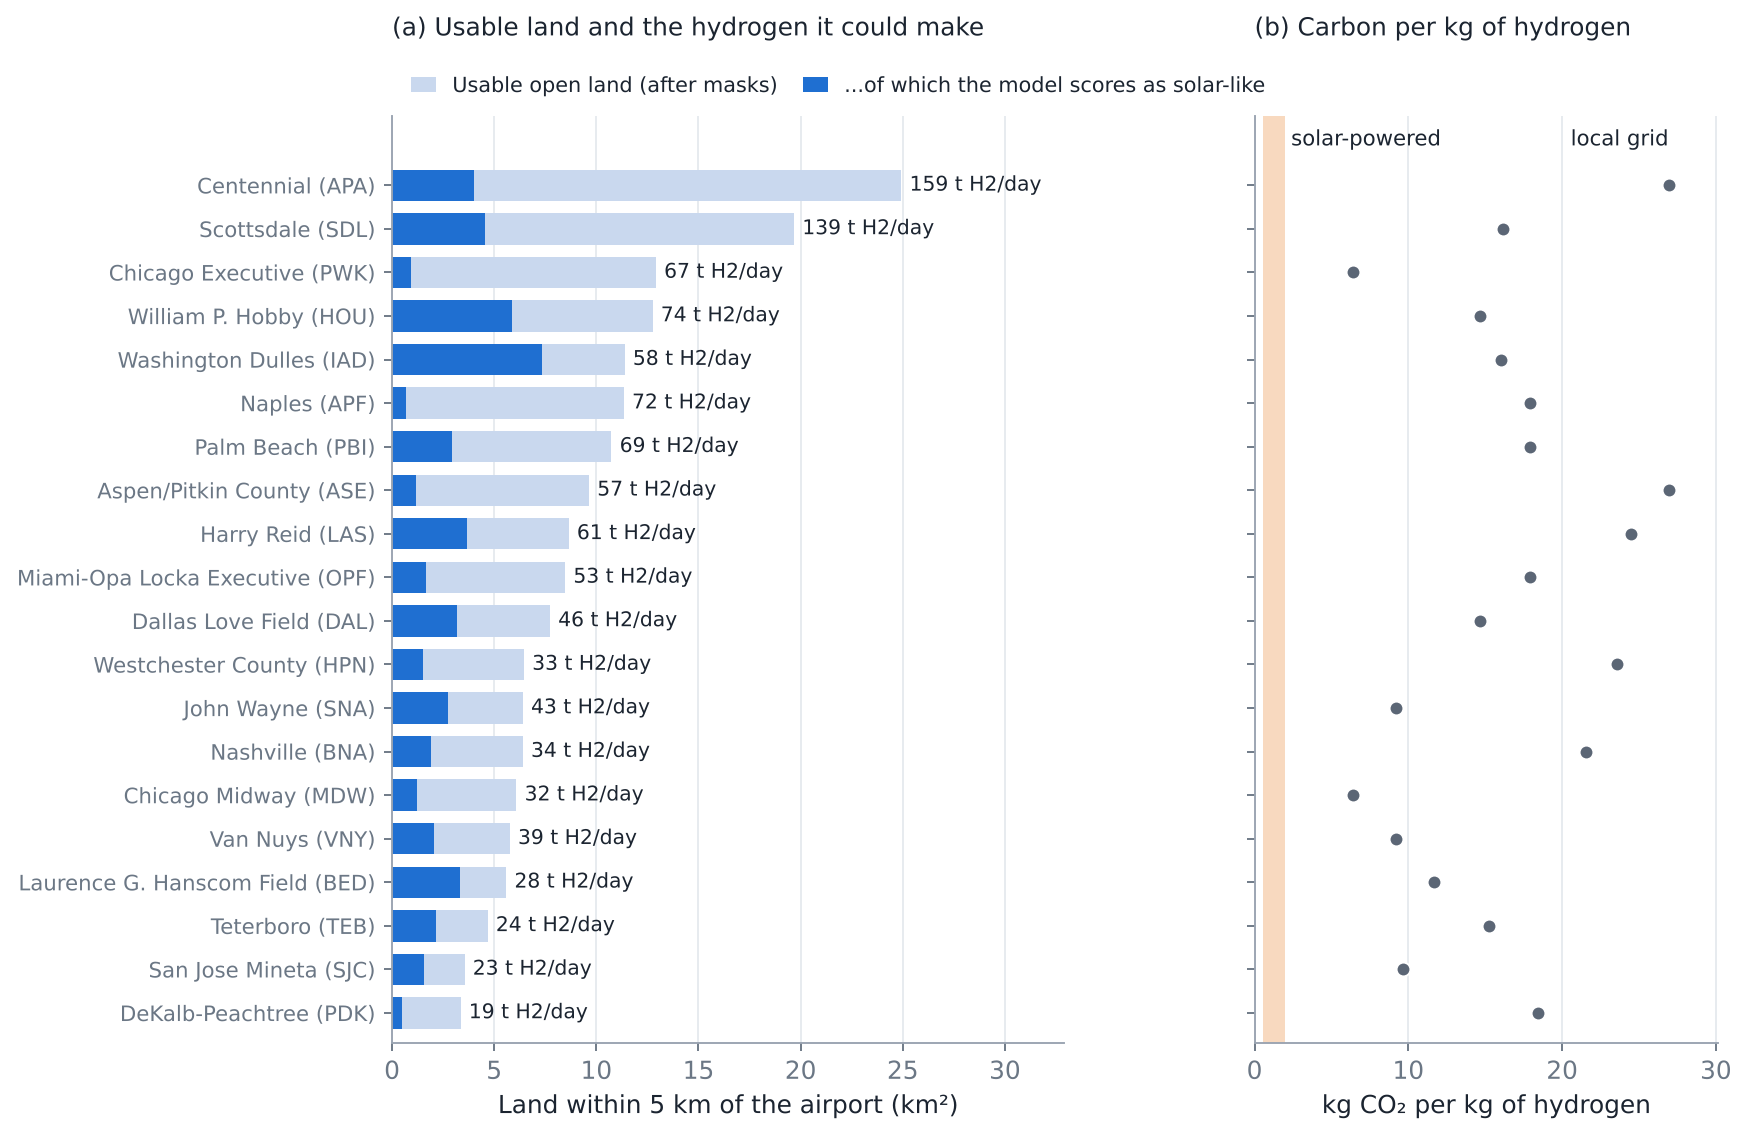
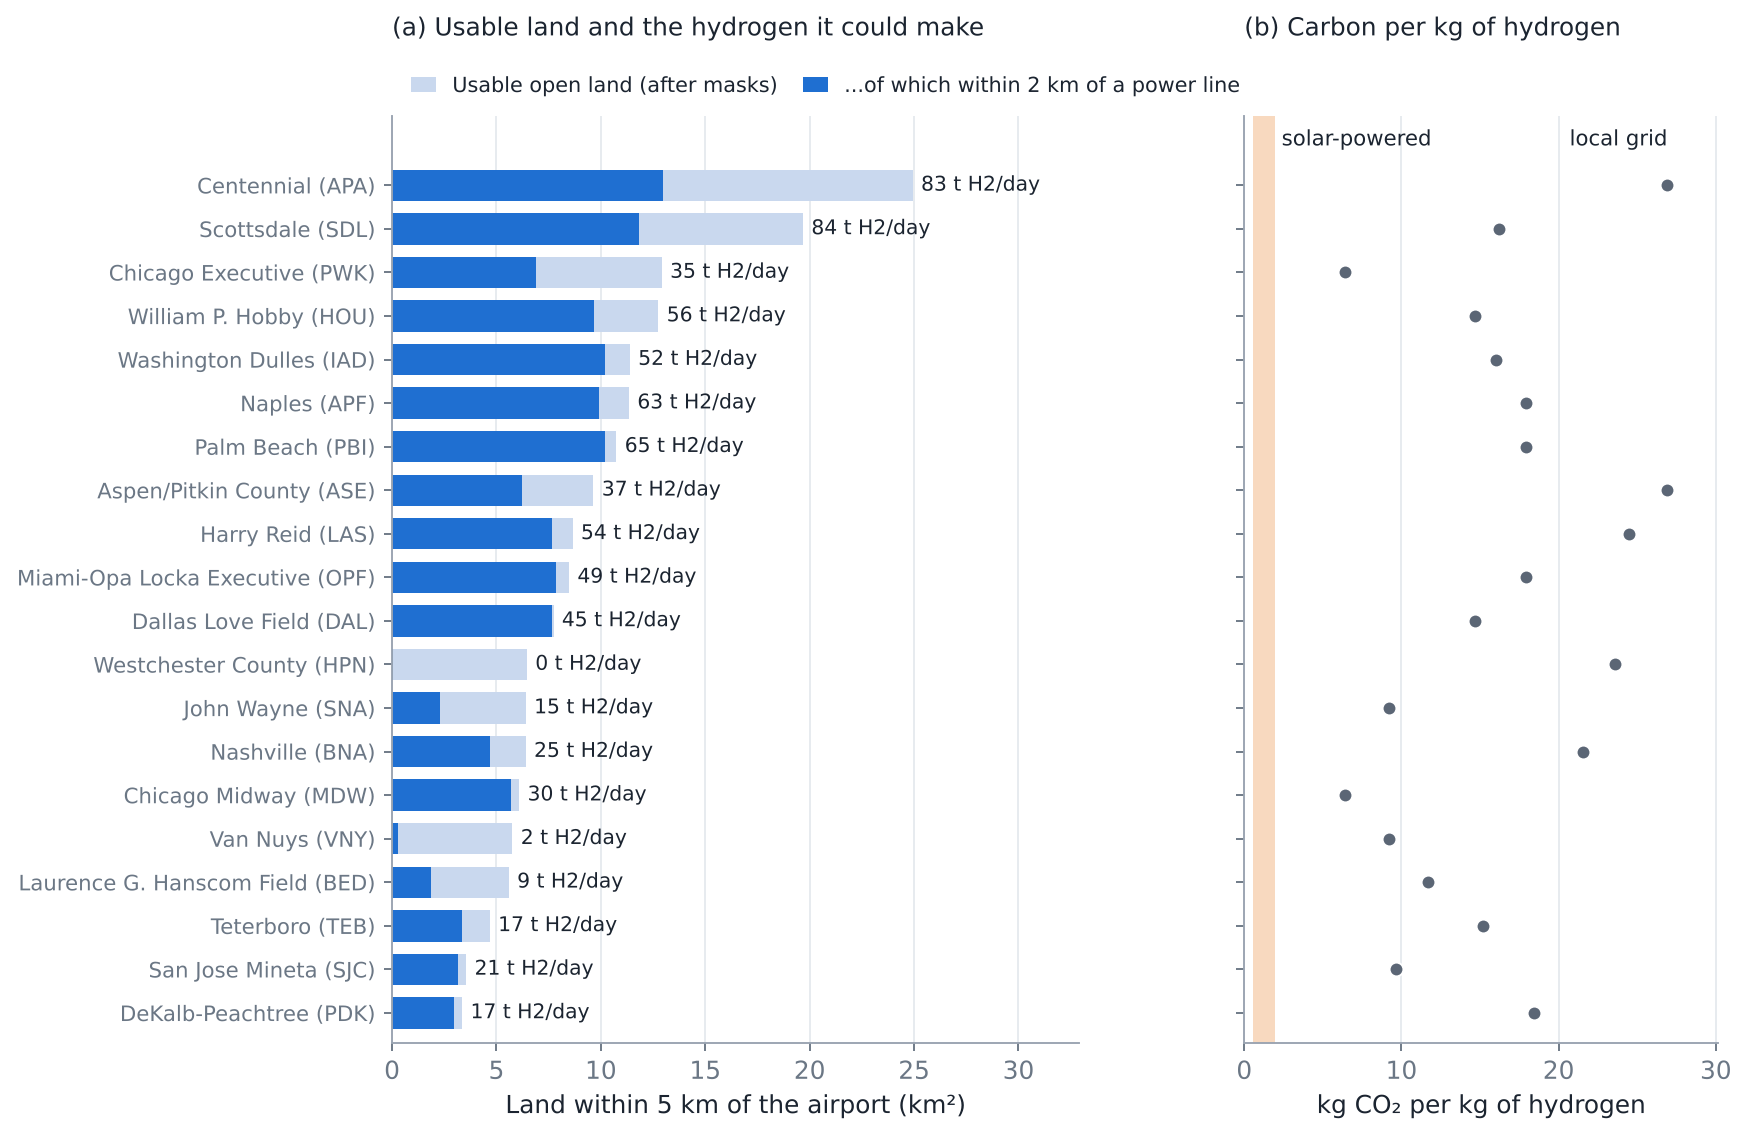
Grid access results (D) on the page and in the README; map page scaffold
Claude-Session: https://claude.ai/code/session_01W6SAWWhDvk72oWzjwsvJjc

diff --git a/docs/index.html b/docs/index.html
@@ -147,15 +147,15 @@ footer{padding:64px 0 80px;font-size:14.5px;color:#56616f}footer p{max-width:60e
 
 <section class="sec"><div class="wrap">
 <p class="kick">What the land could supply</p>
-<h2>Enough land for tens of tonnes of clean hydrogen a day, on paper</h2>
-<p>I removed land that cannot be used (buildings, roads, water, forest, slopes over 5&deg;, existing solar farms and a 500 m band around runways), then converted what was left into solar power and hydrogen.</p>
+<h2>Up to 84 tonnes of clean hydrogen a day per airport, on paper</h2>
+<p>I removed land that cannot be used (buildings, roads, water, forest, slopes over 5&deg;, existing solar farms and a 500 m band around runways), kept what lies within 2 km of a transmission line, then converted it into solar power and hydrogen.</p>
 <div class="finds">
-<div><b>187 km&sup2;</b><p>of usable open land within 5 km of the 20 airports (3.4 to 24.9 km&sup2; each).</p></div>
+<div><b>125 km&sup2;</b><p>of the 187 km&sup2; of usable land (67%) lies within 2 km of a transmission line. Van Nuys, Westchester have almost none.</p></div>
 <div><b>5&ndash;7 t</b><p>of hydrogen a day per km&sup2; of solar, depending on how sunny the airport is.</p></div>
 <div><b>3&ndash;49&times;</b><p>less CO&#8322; per kg than hydrogen made from the local grid (0.55&ndash;1.98 kg against 6.4&ndash;26.9 kg).</p></div>
 </div>
 <img class="shot" style="margin-top:36px;box-shadow:none;border:1px solid #e3e7ee" src="fig/fig5_airport_supply.png" alt="Bar chart of usable land and hydrogen per airport, and dot chart of carbon per kg of hydrogen from grid versus solar">
-<p class="cap">Upper bounds: they ignore grid connection, ownership, zoning and cost. Solar output from NLR PVWatts; 68 MW per km&sup2; is the median of the 3,472 real farms; 55 kWh per kg of hydrogen is the DOE electrolyser figure; grid carbon from the EIA 2025 outlook used in my NSERC work (power plants only). Palm Beach's runways could not be masked, so its land is overstated.</p>
+<p class="cap">Upper bounds: they ignore grid connection, ownership, zoning and cost. Solar output from NLR PVWatts; 68 MW per km&sup2; is the median of the 3,472 real farms; 55 kWh per kg of hydrogen is the DOE electrolyser figure; grid carbon from the EIA 2025 outlook used in my NSERC work (power plants only). Labels show hydrogen from grid-ready land. Palm Beach's runways could not be masked, so its land is overstated. Power lines: HIFLD via GeoPlatform ArcGIS Online (2023).</p>
 </div></section>
 
 <section class="band"><div class="wrap cols">
@@ -177,7 +177,7 @@ footer{padding:64px 0 80px;font-size:14.5px;color:#56616f}footer p{max-width:60e
 <p class="kick">Next steps</p>
 <h2>Making the map useful</h2>
 <div class="next">
-<div><span>1</span><b>Add the grid</b><p>Distance to power lines and substations.</p></div>
+<div><span>1</span><b>Check grid capacity</b><p>Whether nearby lines and substations can take new solar.</p></div>
 <div><span>2</span><b>Add the rules</b><p>Protected land, wetlands and airport safety zones.</p></div>
 <div><span>3</span><b>Cover every airport</b><p>All US general-aviation airports, not 20.</p></div>
 <div><span>4</span><b>Match supply to demand</b><p>Compare with what hydrogen aircraft at each airport would need.</p></div>

diff --git a/src/aes/build_page.py b/src/aes/build_page.py
@@ -74,6 +74,8 @@ def numbers(res="results"):
     au = lambda d, f: float(d[(d.features == f) & (d.n_labels == 1000)].auc_mean.iloc[0])
     fb = J("followup/followupB_result.json")
     sup = pd.read_csv(os.path.join(res, "followup/airport_supply.csv"))
+    gr = pd.read_csv(os.path.join(res, "followup/grid_areas.csv")); sg = sup.merge(gr, on="faa_id")
+    sg["g2h2"] = sg.grid2_km2 * sg.h2_t_per_day_per_km2
     ratio_lo = sup.grid_h2_kgco2_per_kg.min() / sup.solar_h2_kgco2_per_kg_high.iloc[0]
     ratio_hi = sup.grid_h2_kgco2_per_kg.max() / sup.solar_h2_kgco2_per_kg_low.iloc[0]
     extra = dict(
@@ -87,6 +89,9 @@ def numbers(res="results"):
         grid_lo=f"{sup.grid_h2_kgco2_per_kg.min():.1f}", grid_hi=f"{sup.grid_h2_kgco2_per_kg.max():.1f}",
         sol_lo=f"{sup.solar_h2_kgco2_per_kg_low.iloc[0]:.2f}", sol_hi=f"{sup.solar_h2_kgco2_per_kg_high.iloc[0]:.2f}",
         ratio_lo=f"{ratio_lo:.0f}", ratio_hi=f"{ratio_hi:.0f}",
+        grid_total=f"{sg.grid2_km2.sum():.0f}", grid_share=f"{100 * sg.grid2_km2.sum() / sg.available_km2.sum():.0f}",
+        g2h2_max=f"{sg.g2h2.max():.0f}", g2h2_top=", ".join(sg.sort_values("g2h2", ascending=False).name.head(2).str.replace(" Airport", "")),
+        grid_poor=", ".join(sg[sg.grid2_km2 < 0.5].name.str.replace(" Airport", "").str.replace(" County", "")),
         dens=f"{J('followup/supply_constants.json')['packing_density']['median_mw_per_km2']:.0f}")
     return dict(**extra,
         n_farms=f"{rep['n_farms']:,}", n_px=f"{rep['n_pos'] + rep['n_neg']:,}",
@@ -193,15 +198,15 @@ def fragment(n, img):
 
 <section class="sec"><div class="wrap">
 <p class="kick">What the land could supply</p>
-<h2>Enough land for tens of tonnes of clean hydrogen a day, on paper</h2>
-<p>I removed land that cannot be used (buildings, roads, water, forest, slopes over 5&deg;, existing solar farms and a 500 m band around runways), then converted what was left into solar power and hydrogen.</p>
+<h2>Up to {n['g2h2_max']} tonnes of clean hydrogen a day per airport, on paper</h2>
+<p>I removed land that cannot be used (buildings, roads, water, forest, slopes over 5&deg;, existing solar farms and a 500 m band around runways), kept what lies within 2 km of a transmission line, then converted it into solar power and hydrogen.</p>
 <div class="finds">
-<div><b>{n['land_total']} km&sup2;</b><p>of usable open land within 5 km of the {n['n_air']} airports ({n['land_min']} to {n['land_max']} km&sup2; each).</p></div>
+<div><b>{n['grid_total']} km&sup2;</b><p>of the {n['land_total']} km&sup2; of usable land ({n['grid_share']}%) lies within 2 km of a transmission line. {n['grid_poor']} have almost none.</p></div>
 <div><b>{n['h2_km2_lo']}&ndash;{n['h2_km2_hi']} t</b><p>of hydrogen a day per km&sup2; of solar, depending on how sunny the airport is.</p></div>
 <div><b>{n['ratio_lo']}&ndash;{n['ratio_hi']}&times;</b><p>less CO&#8322; per kg than hydrogen made from the local grid ({n['sol_lo']}&ndash;{n['sol_hi']} kg against {n['grid_lo']}&ndash;{n['grid_hi']} kg).</p></div>
 </div>
 <img class="shot" style="margin-top:36px;box-shadow:none;border:1px solid #e3e7ee" src="{img['fig5']}" alt="Bar chart of usable land and hydrogen per airport, and dot chart of carbon per kg of hydrogen from grid versus solar">
-<p class="cap">Upper bounds: they ignore grid connection, ownership, zoning and cost. Solar output from NLR PVWatts; {n['dens']} MW per km&sup2; is the median of the {n['n_farms']} real farms; 55 kWh per kg of hydrogen is the DOE electrolyser figure; grid carbon from the EIA 2025 outlook used in my NSERC work (power plants only). Palm Beach's runways could not be masked, so its land is overstated.</p>
+<p class="cap">Upper bounds: they ignore grid connection, ownership, zoning and cost. Solar output from NLR PVWatts; {n['dens']} MW per km&sup2; is the median of the {n['n_farms']} real farms; 55 kWh per kg of hydrogen is the DOE electrolyser figure; grid carbon from the EIA 2025 outlook used in my NSERC work (power plants only). Labels show hydrogen from grid-ready land. Palm Beach's runways could not be masked, so its land is overstated. Power lines: HIFLD via GeoPlatform ArcGIS Online (2023).</p>
 </div></section>
 
 <section class="band"><div class="wrap cols">
@@ -223,7 +228,7 @@ def fragment(n, img):
 <p class="kick">Next steps</p>
 <h2>Making the map useful</h2>
 <div class="next">
-<div><span>1</span><b>Add the grid</b><p>Distance to power lines and substations.</p></div>
+<div><span>1</span><b>Check grid capacity</b><p>Whether nearby lines and substations can take new solar.</p></div>
 <div><span>2</span><b>Add the rules</b><p>Protected land, wetlands and airport safety zones.</p></div>
 <div><span>3</span><b>Cover every airport</b><p>All US general-aviation airports, not {n['n_air']}.</p></div>
 <div><span>4</span><b>Match supply to demand</b><p>Compare with what hydrogen aircraft at each airport would need.</p></div>

diff --git a/src/aes/figures.py b/src/aes/figures.py
@@ -107,15 +107,24 @@ def fig_harder(res="results/followup", out="docs/fig"):
 
 
 def fig_supply(res="results/followup", out="docs/fig"):
-    a = pd.read_csv(os.path.join(res, "airport_supply.csv")).sort_values("available_km2")
+    a = pd.read_csv(os.path.join(res, "airport_supply.csv")).sort_values("available_km2").reset_index(drop=True)
     lab = [f"{n.replace(' International Airport','').replace(' Airport','').replace(' Municipal','')} ({i})" for n, i in zip(a.name, a.faa_id)]
     y = range(len(a))
     fig, axes = plt.subplots(1, 2, figsize=(10.4, 6.8), sharey=True, gridspec_kw={"width_ratios": [1.45, 1]})
     ax = axes[0]
-    ax.barh(y, a.available_km2, color="#c9d8ee", height=.72, label="Usable open land (after masks)")
-    ax.barh(y, a.available_solarlike_km2, color=BLUE, height=.72, label="...of which the model scores as solar-like")
-    for yi, km, t in zip(y, a.available_km2, a.available_h2_t_per_day):
-        ax.text(km + .4, yi, f"{t:.0f} t H2/day", va="center", fontsize=8.6, color=INK)
+    gpath = os.path.join(res, "grid_areas.csv")
+    if os.path.exists(gpath):
+        a = a.merge(pd.read_csv(gpath)[["faa_id", "grid2_km2"]], on="faa_id", how="left")
+        a["grid2_h2"] = a.grid2_km2 * a.h2_t_per_day_per_km2
+        ax.barh(y, a.available_km2, color="#c9d8ee", height=.72, label="Usable open land (after masks)")
+        ax.barh(y, a.grid2_km2, color=BLUE, height=.72, label="...of which within 2 km of a power line")
+        for yi, km, t in zip(y, a.available_km2, a.grid2_h2):
+            ax.text(km + .4, yi, f"{t:.0f} t H2/day", va="center", fontsize=8.6, color=INK)
+    else:
+        ax.barh(y, a.available_km2, color="#c9d8ee", height=.72, label="Usable open land (after masks)")
+        ax.barh(y, a.available_solarlike_km2, color=BLUE, height=.72, label="...of which the model scores as solar-like")
+        for yi, km, t in zip(y, a.available_km2, a.available_h2_t_per_day):
+            ax.text(km + .4, yi, f"{t:.0f} t H2/day", va="center", fontsize=8.6, color=INK)
     ax.set_yticks(list(y)); ax.set_yticklabels(lab, fontsize=9)
     ax.set_xlabel("Land within 5 km of the airport (km²)"); ax.set_xlim(0, a.available_km2.max() * 1.32)
     ax.grid(axis="x", color="#e6eaef", lw=.8); ax.set_axisbelow(True)

diff --git a/README.md b/README.md
@@ -25,6 +25,9 @@ airports, the pre-registered high-confidence threshold flags almost no land. All
 - **Airport supply:** after masking unusable land, the 20 airports have 3.4-24.9 km² of usable open land each
   (187 km² in total), worth about 5-7 t of hydrogen a day per km² of solar (upper bound). Solar hydrogen would
   emit 0.55-1.98 kg CO2e per kg, against 6.4-26.9 kg for grid-powered electrolysis at these airports.
+- **Grid access:** 125 of the 187 km² of usable land (67%) lies within 2 km of a transmission line (HIFLD, via
+  GeoPlatform ArcGIS Online). Van Nuys and Westchester have almost none. On grid-ready land the upper bound is
+  0.2-84 t of hydrogen a day per airport.
 
 ## What is here
 | Path | What it is |
